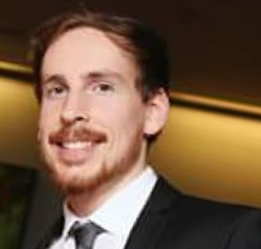
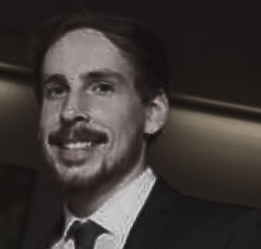
altered headshot to black and white

diff --git a/index.html b/index.html
@@ -96,7 +96,7 @@
                         <circle cx="6" cy="6" r="6" fill="white" />
                         </svg>
                     </div>
-                    <button type="button" class="button" name="button"><a href="#intro">Back to top</a></button>
+                    <button type="button" class="btn btn-dark" name="button"><a href="#intro">Back to top</a></button>
 
                 </div>
             </main>
@@ -125,20 +125,23 @@ $(document).ready(function(){
        window.location.hash = hash;
      });
    } // End if
- });
-});
-// scroll functions
-$(window).scroll(function(e) {
+  })
+  // scroll functions
+  $(window).scroll(function(e) {
 
-    // add/remove class to navbar when scrolling to hide/show
-    var scroll = $(window).scrollTop();
-    if (scroll >= 150) {
-        $('.navbar').addClass("navbar-hide");
-    } else {
-        $('.navbar').removeClass("navbar-hide");
-    }
+  // add/remove class to navbar when scrolling to hide/show
+  var scroll = $(window).scrollTop();
+  if (scroll >= 150) {
+    $(".navbar").addClass("navbar-hide");
+
+  } else {
+    $(".navbar").removeClass("navbar-hide");
+  }
+
 
 });
+});
+</script>
 </script>
 </body>
 </html>
